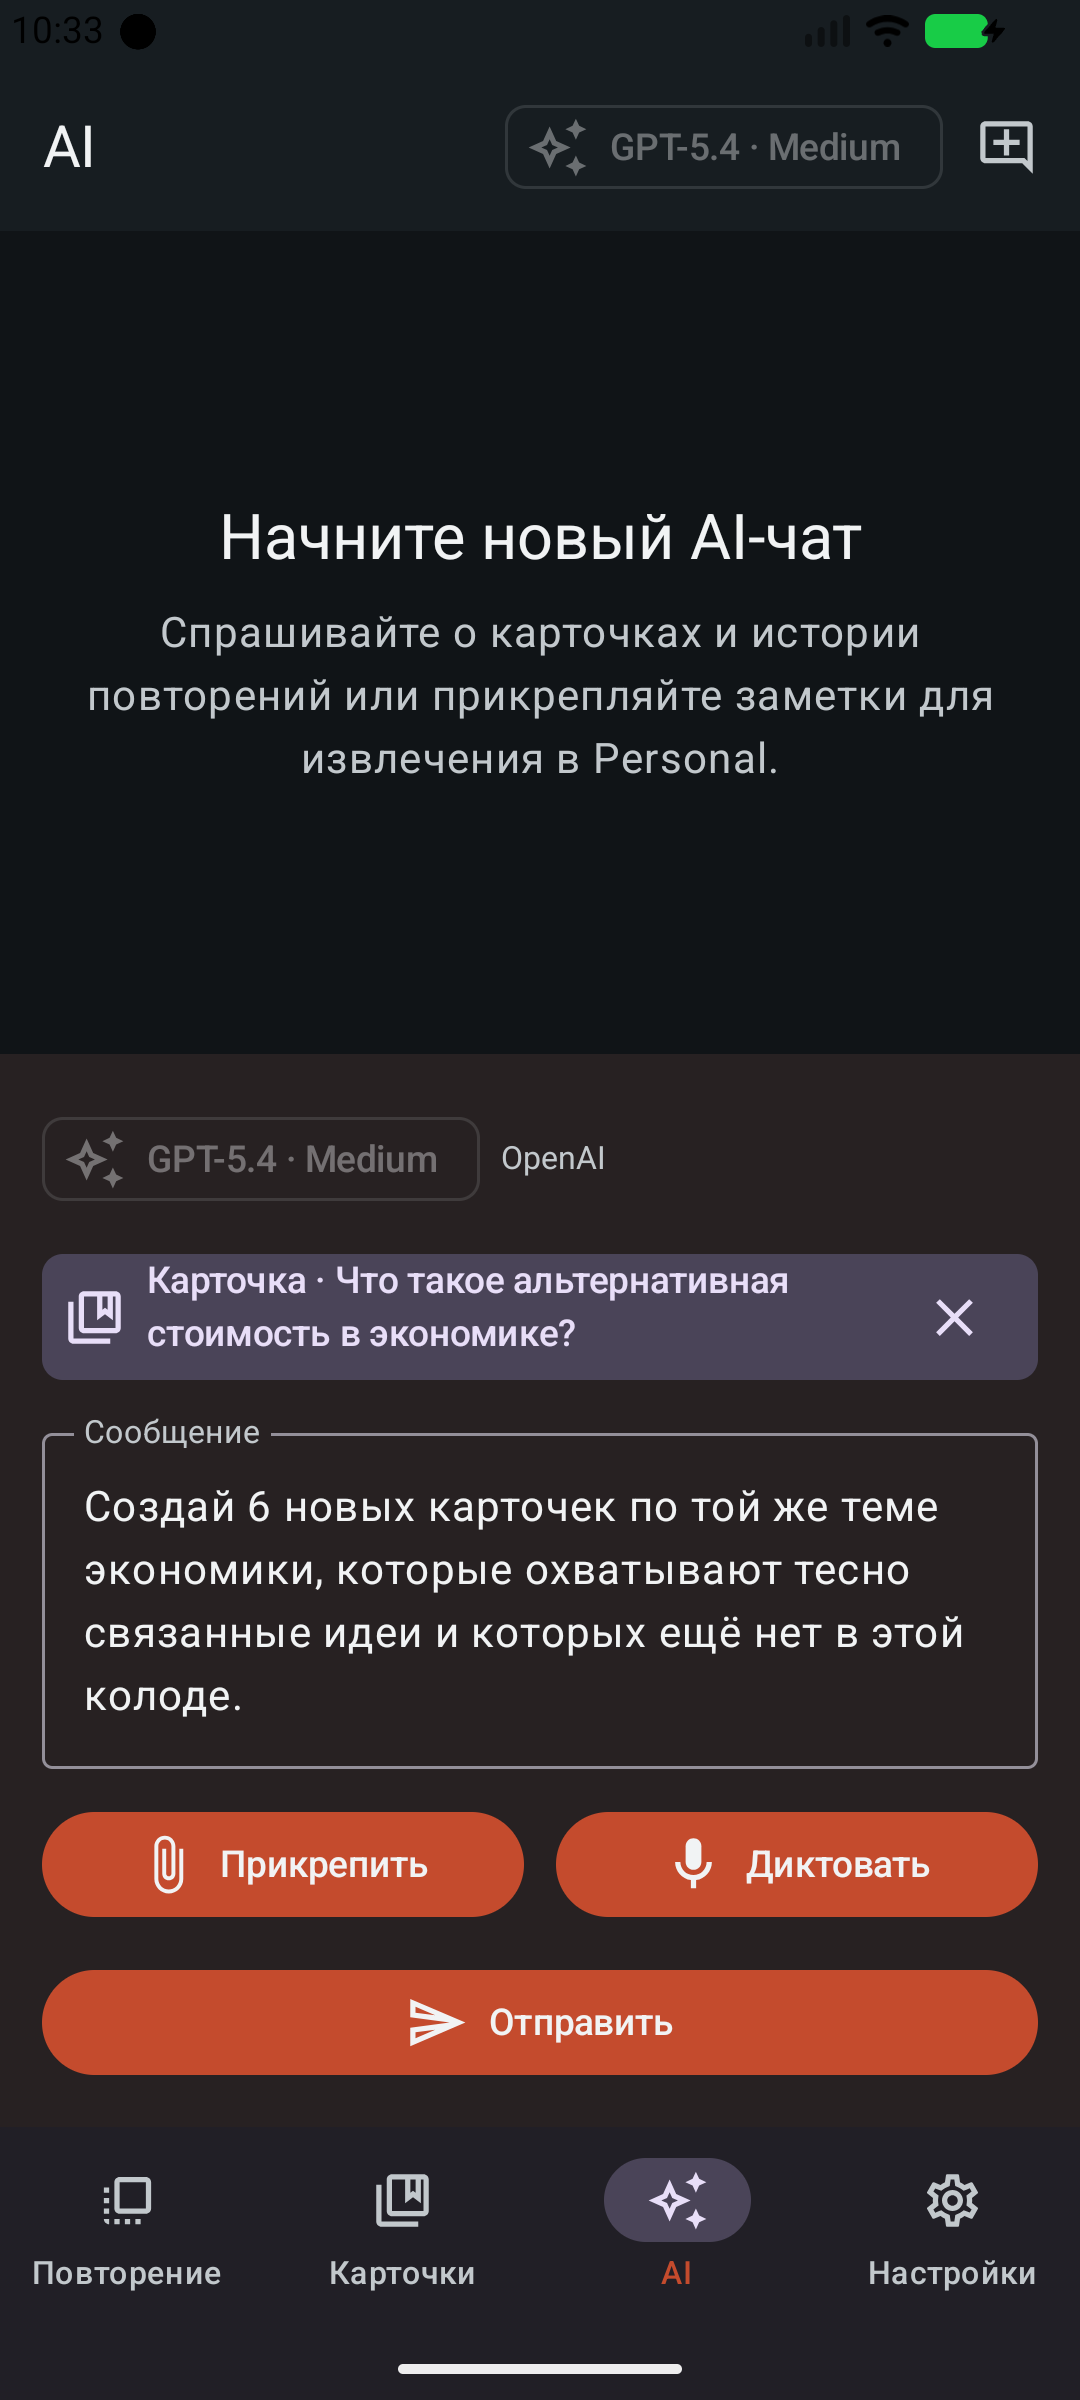
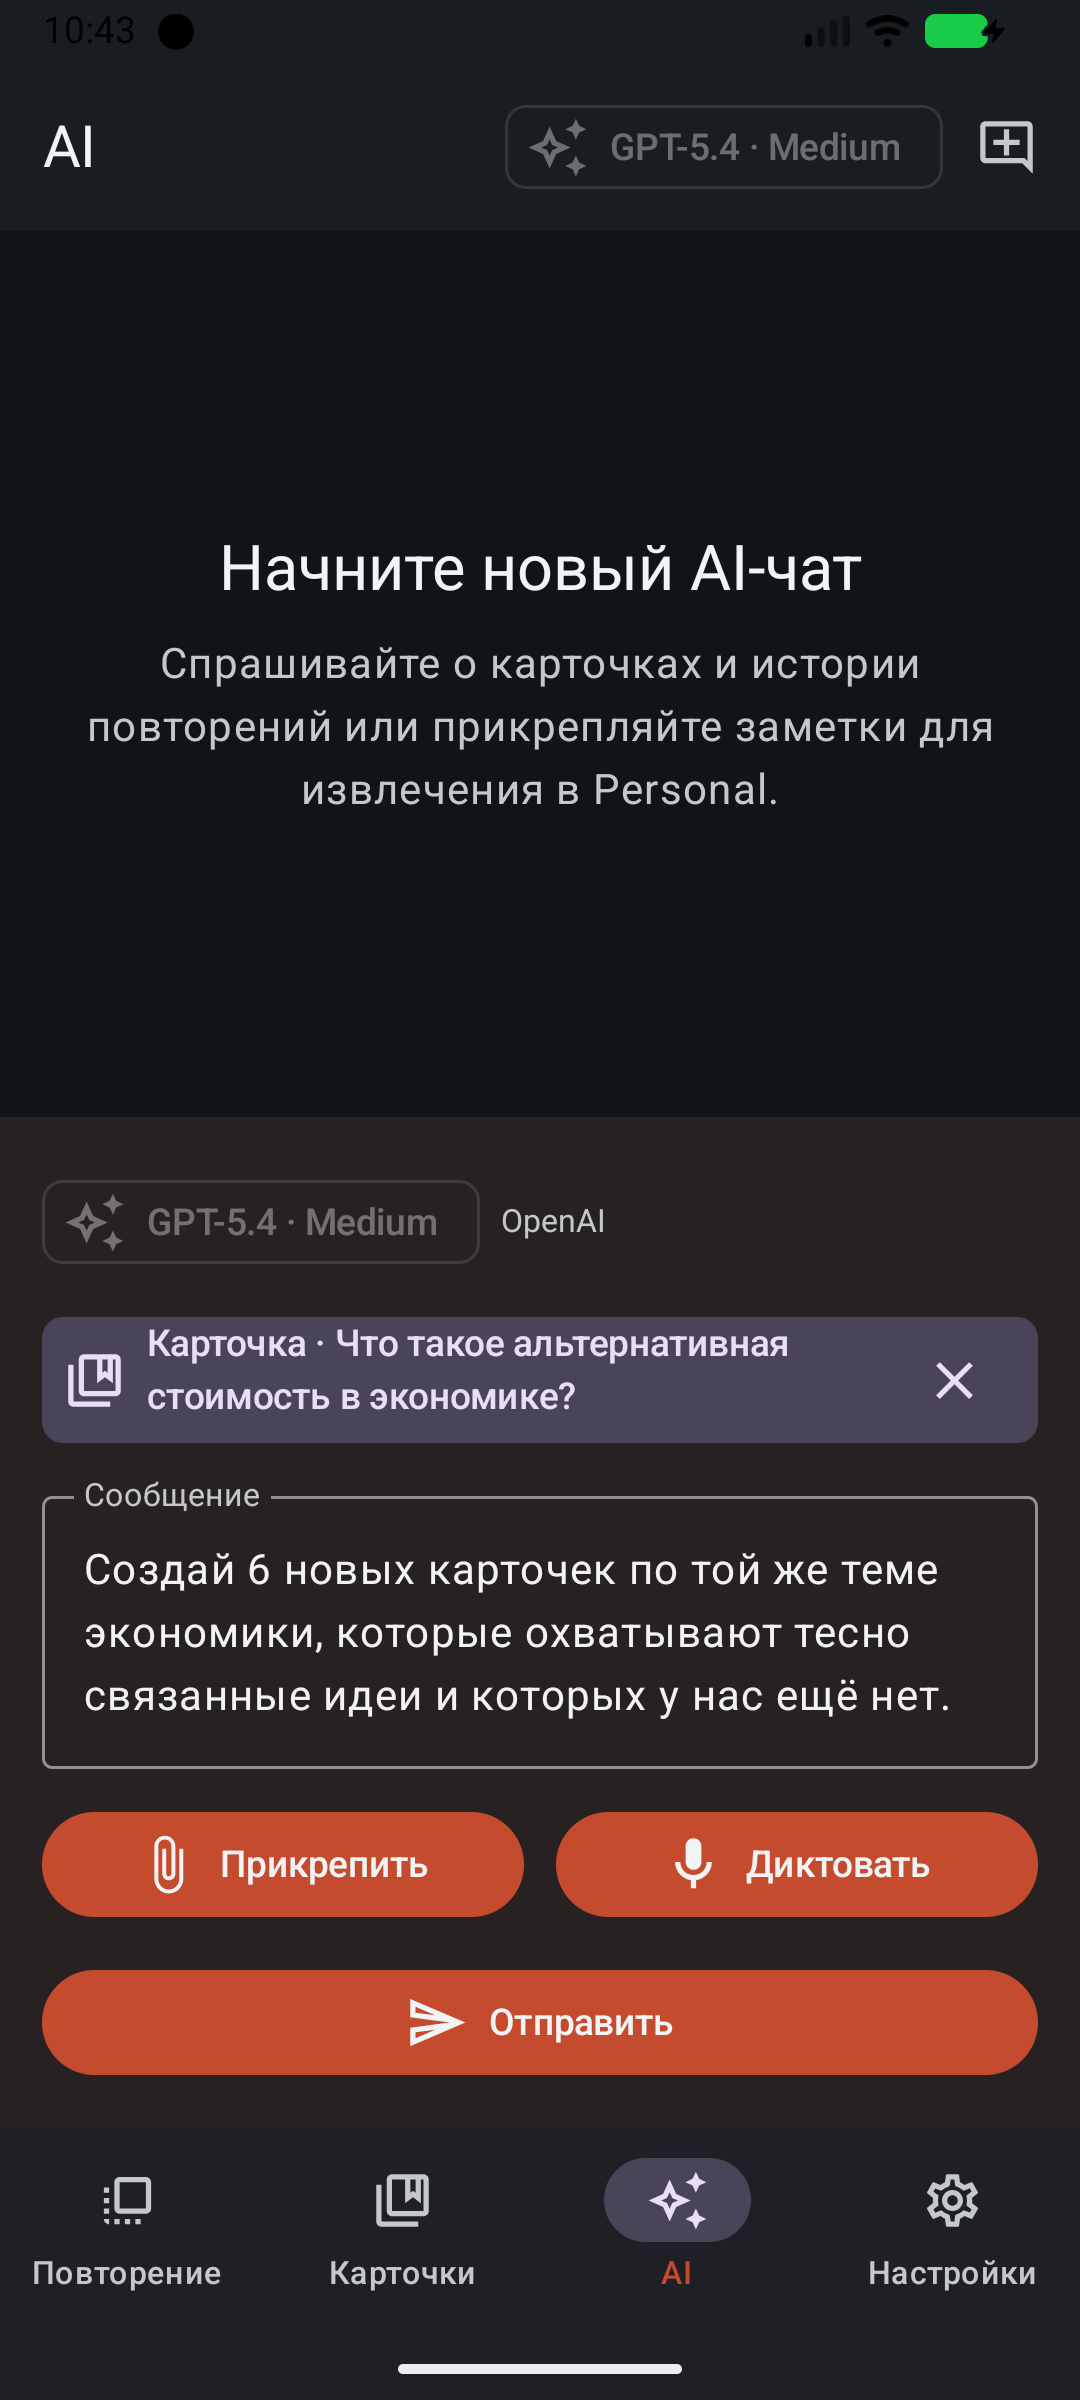
Update Android marketing screenshot AI draft copy

Changed region(s): [[0.0306, 0.4688, 0.9778, 0.7188], [0.0917, 0.2188, 0.9167, 0.3438], [0.0306, 0.0, 0.1833, 0.0312]]

diff --git a/apps/android/app/src/androidTest/java/com/flashcardsopensourceapp/app/MarketingScreenshotCatalog.kt b/apps/android/app/src/androidTest/java/com/flashcardsopensourceapp/app/MarketingScreenshotCatalog.kt
@@ -77,7 +77,7 @@ private fun makeEnglishUnitedStatesMarketingScreenshotLocaleConfig(
             tags = listOf("economics"),
             effortLevelTitle = "Medium"
         ),
-        reviewAiDraftMessage = "Create 6 new flashcards on the same economics topic, covering closely related ideas that are not already in this deck.",
+        reviewAiDraftMessage = "Create 6 new flashcards on the same economics topic, covering closely related ideas that we do not already have.",
         cards = listOf(
             MarketingConceptCard(
                 frontText = "In economics, what is opportunity cost?",
@@ -486,7 +486,7 @@ private val russianMarketingScreenshotLocaleConfig: MarketingScreenshotLocaleCon
         tags = listOf("экономика"),
         effortLevelTitle = "Средний"
     ),
-    reviewAiDraftMessage = "Создай 6 новых карточек по той же теме экономики, которые охватывают тесно связанные идеи и которых ещё нет в этой колоде.",
+    reviewAiDraftMessage = "Создай 6 новых карточек по той же теме экономики, которые охватывают тесно связанные идеи и которых у нас ещё нет.",
     cards = listOf(
         MarketingConceptCard(
             frontText = "Что такое альтернативная стоимость в экономике?",
